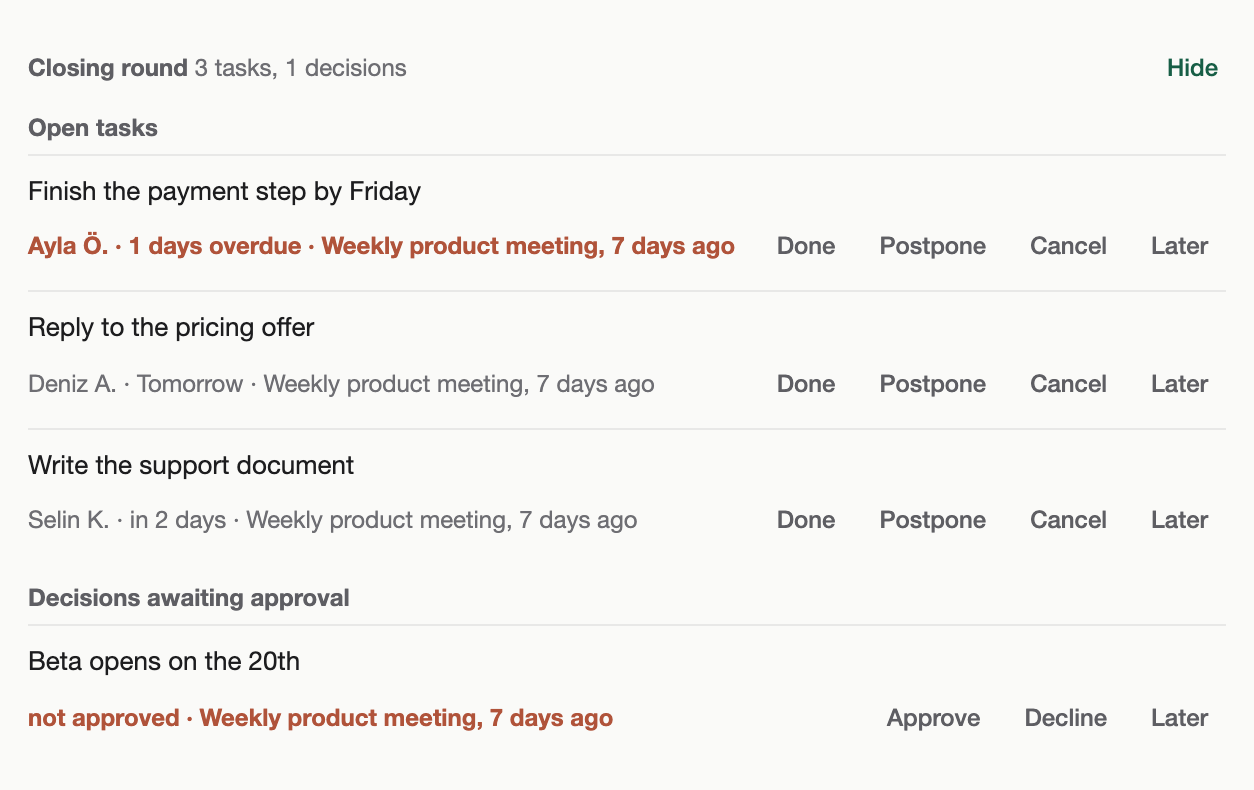
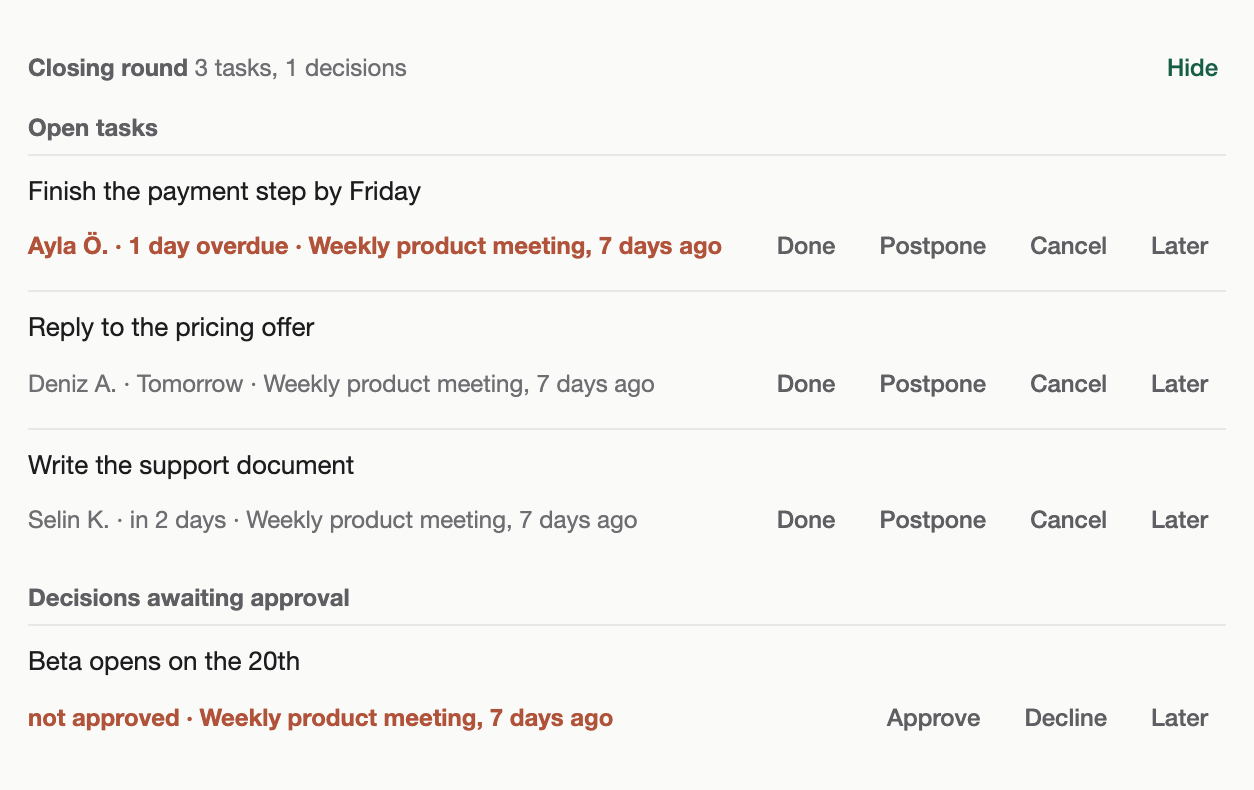
v0.226.4: toplantı şeridindeki kartlar panodaki tasarımda (ayrı kart, tür simgesi, ↳ soru, kaynak satırı); EN iş sekmesi Open, tekil 'day'; README: tam pencere pano görselleri, yeni şerit, Takvim bölümü

Changed region(s): [[0.1555, 0.2734, 0.5909, 0.3342]]

diff --git a/content.js b/content.js
@@ -567,7 +567,10 @@ chrome.runtime.onMessage.addListener((msg, _s, reply) => {
       kulak: ["M4 15v-3a8 8 0 0 1 16 0v3", "M5 14h2.5v6H6a1.5 1.5 0 0 1-1.5-1.5V15z", "M19 14h-2.5v6H18a1.5 1.5 0 0 0 1.5-1.5V15z"],
       kilit: ["M7 10.5h10a2 2 0 0 1 2 2v6a2 2 0 0 1-2 2H7a2 2 0 0 1-2-2v-6a2 2 0 0 1 2-2z", "M8.5 10.5V7.5a3.5 3.5 0 0 1 7 0v3"],
       disli: ["M12 9a3 3 0 1 1 0 6a3 3 0 1 1 0-6z", "M12 3.5v2.2M12 18.3v2.2M3.5 12h2.2M18.3 12h2.2M6 6l1.6 1.6M16.4 16.4L18 18M18 6l-1.6 1.6M7.6 16.4L6 18"],
-      pin: ["M9 4h6l-1 5.5 3 3H7l3-3z", "M12 12.5V20"] };
+      pin: ["M9 4h6l-1 5.5 3 3H7l3-3z", "M12 12.5V20"],
+      sohbet: ["M20.5 12a8.5 8.5 0 0 1-12.4 7.6L3.5 20.5l1-4.2A8.5 8.5 0 1 1 20.5 12z", "M9 10.5v3M12 9v6M15 10.5v3"],
+      liste: ["M7 4.5h10a2 2 0 0 1 2 2v12a2 2 0 0 1-2 2H7a2 2 0 0 1-2-2v-12a2 2 0 0 1 2-2z", "M9 4.5V3h6v1.5M8.5 10h7M8.5 13.5h7M8.5 17h4"] };
+    const KI = { soyle: "sohbet", dur: "uyari", cevap: "check", not: "liste", onay: "zil", replik: "replik" };  // pano/pano.html KI ile aynı: tür simgeyle de ayrılır (v0.194.0)
     function ikon(d, ad) {
       const NS = "http://www.w3.org/2000/svg", s = d.createElementNS(NS, "svg"); s.setAttribute("viewBox", "0 0 24 24"); s.setAttribute("class", "i"); s.setAttribute("aria-hidden", "true");
       for (const yol of IKON[ad] || []) { const p = d.createElementNS(NS, "path"); p.setAttribute("d", yol); s.append(p); }
@@ -593,16 +596,16 @@ chrome.runtime.onMessage.addListener((msg, _s, reply) => {
         .row button.rb.bas{color:var(--ac-yazi);background:var(--ac);border-color:var(--ac)}.row button.rb.tmm{animation:tm .9s}
         @keyframes tm{0%{background:color-mix(in srgb,var(--ac) 45%,transparent)}100%{background:var(--s1)}}
         .row .ay{width:1px;height:16px;background:var(--bd2);margin:0 2px;flex:none}
-        .k{position:relative;background:transparent;border:0;border-radius:var(--kose-s);padding:6px 6px 6px 12px;margin:0 0 6px;overflow:hidden;color:var(--tx);cursor:pointer;display:flex;gap:6px;align-items:flex-start}
-        .k:hover{background:var(--hov)}.k .m{flex:1;min-width:0}
-        .k::before{content:"";position:absolute;left:0;top:6px;bottom:6px;width:2px;border-radius:var(--kose-tam);background:var(--kc,var(--t3))}.k.bil::before{display:none}
-        .k b{display:block;font-size:var(--yz-1);font-weight:600;letter-spacing:.03em;color:var(--kc,var(--t3));margin-bottom:1px}
-        .a{display:flex;gap:2px;flex:none}
+        .k{position:relative;background:var(--s1);border:1px solid var(--bd);border-radius:var(--kose-l);padding:12px;margin:0 0 8px;overflow:hidden;color:var(--tx);cursor:pointer;display:flex;gap:8px;align-items:flex-start}  /* pano/pano.html .k: ayrı yuvarlak kart, renk çubuğu yok */
+        .k:hover{background:var(--hov)}.k .m{flex:1;min-width:0;overflow-wrap:anywhere}.k[data-onay]{cursor:default}
+        .k b{display:flex;align-items:center;gap:4px;font-size:var(--yz-2);font-weight:600;letter-spacing:.03em;color:var(--kc,var(--t3));margin-bottom:4px}.k b svg.i{width:13px;height:13px;stroke-width:1.9}
+        .kw{font-size:var(--yz-2);color:var(--t2);margin-top:4px}
+        .a{display:flex;gap:4px;flex:none}
         button{font:var(--yz-2)/1 -apple-system,BlinkMacSystemFont,system-ui,sans-serif;color:var(--t3);background:transparent;border:1px solid transparent;border-radius:var(--kose-s);padding:4px 6px;cursor:pointer}
         button:hover{background:var(--hov);color:var(--tx)}button:disabled{opacity:.6}
         .q{font-size:var(--yz-2);color:var(--t2);padding:4px 2px}.top{font-size:var(--yz-2);color:var(--t2);margin:0 2px 6px;display:flex;align-items:center;gap:5px}svg.i{width:13px;height:13px;stroke:currentColor;fill:none;stroke-width:1.8;stroke-linecap:round;stroke-linejoin:round;flex:none;vertical-align:-2px}button svg.i{width:14px;height:14px}.top:empty{display:none}.uy{color:var(--dikkat)}
         .bos{font-size:var(--yz-2);color:var(--t3);padding:6px 2px}
-        .kd{font-size:var(--yz-2);color:var(--t2);margin-top:2px}.rp{font-weight:600}
+        .kd{font-size:var(--yz-2);color:var(--t3);margin-top:4px}.rp{font-weight:600}
         .yeni{animation:p 1s 3}@keyframes p{0%{box-shadow:0 0 0 0 color-mix(in srgb,var(--ac) 75%,transparent)}100%{box-shadow:0 0 0 12px transparent}}
         @media (prefers-reduced-motion:reduce){*{animation:none!important;transition:none!important}}`;
     function ensure() {
@@ -775,11 +778,13 @@ chrome.runtime.onMessage.addListener((msg, _s, reply) => {
       if (dil) list.append(ust("uyari", L("Döküm dili yanlış — panoya bak"), "top uy"));
       if (warn) list.append(ust("uyari", warn, "top uy"));
       cards.forEach(c => {
-        const k = e("div", c.kind === "cevap" || c.kind === "not" ? "k bil" : "k"); k.dataset.id = c.id; k.style.setProperty("--kc", COL[c.kind]);
+        const k = e("div", "k k-" + c.kind); k.dataset.id = c.id; k.style.setProperty("--kc", COL[c.kind]);
         if (c.onay) k.dataset.onay = "1"; else k.title = L("Dokun: kapat");
-        const m = e("div", "m"); m.append(e("b", null, (c.geri ? "↩ " : "") + L(c.onay ? "Onay bekliyor" : c.replik ? "Ne diyeyim" : KL[c.kind] || "Not")));
+        const m = e("div", "m"); const bb = e("b"); if (c.geri) bb.append(d.createTextNode("↩ ")); bb.append(ikon(d, KI[c.onay ? "onay" : c.replik ? "replik" : c.kind] || "liste"), d.createTextNode(L(c.onay ? "Onay bekliyor" : c.replik ? "Ne diyeyim" : KL[c.kind] || "Not"))); m.append(bb);
+        if (!c.gizli && c.q) m.append(e("div", "kw", "↳ " + c.q));  // panodaki gibi: kartı doğuran soru
         if (!c.gizli) m.append(c.replik ? e("span", "rp", c.text) : d.createTextNode(c.text));
         if (c.durum && !c.gizli) m.append(e("div", "kd", c.durum));  // Ne diyeyim?: şu an ne konuşuluyor
+        if (typeof c.why === "string" && c.why && !/^\s*[\[{]/.test(c.why) && !c.gizli) m.append(e("div", "kw", c.why));  // kaynak/neden satırı (gri)
         const a = e("div", "a");
         // onay kartı (#76): Claude'un yapacağı iç işi yazılı onayla — yalnız anahtarlı eklentiden geçer
         (c.onay ? [["onaylandi", ["check", L("Onayla")], "Onayla"], ["reddedildi", ["x", L("Reddet")], "Reddet"]] :

diff --git a/pano/pano.html b/pano/pano.html
@@ -558,7 +558,7 @@ const DIL="__DIL__"
 const EN=globalThis.SUFLOR_EN || {}
 // S133: kullanıcıya görünen tek muhatap asistan — {asistan} = toplantı kişiliğinin adı (/status asistan; kişiliksiz "Suflor")
 let AS="Suflor",ASM={};const AG=a=>ASM[a]||a;const asGor=k=>(k&&(k.kisilik_gorunen||AG(k.kisilik)))||AS
-function L(s,v){let t=DIL==="en"&&EN[s]||s;if(v)for(const k in v)t=t.split("{"+k+"}").join(v[k]);return t.split("{asistan}").join(AS)}
+function L(s,v){let t=DIL==="en"&&EN[s]||s;if(v)for(const k in v)t=t.split("{"+k+"}").join(v[k]);if(DIL==="en"&&v)t=t.replace(/\b1 (day|week|hour|minute|item|card|task|record|meeting)s\b/g,"1 $1");return t.split("{asistan}").join(AS)}  // İngilizce tekil: "1 days" → "1 day"
 // durağan HTML'deki {asistan}: özgün metin saklanır, ad değişince yeniden yazılır
 // kutu ipucu: toplantıda (ve mini panoda) genel "Asistanla konuş" — toplantıda ve dışında asistan farklı; panoda toplantı yokken (Bugün) toplantı dışı kişiliğin adıyla "Marvin'e sor"
 function yonelme(a){a=String(a||'').trim();const t=a.toLowerCase(),v=(t.match(/[aeıioöuü](?=[^aeıioöuü]*$)/)||['e'])[0];return a+"'"+(/[aeıioöuü]$/.test(t)?'y':'')+('aıou'.includes(v)?'a':'e')}
@@ -2311,7 +2311,7 @@ function knListe(liste,sk){if(!liste.length)return''
 function knCiz(){const v=knV,ks=v?v.kayitlar.filter(x=>!bnGizli.has(x.id)):[],sk=knSek()
   const dis=v?(v.dis||[]).flatMap(d=>d.ok?d.kayitlar.map(x=>({tur:x.tur,metin:x.metin,kim:x.sahip||'',baslik:x.toplanti||'',toplanti:'',vade:x.vade||'',durum:'acik',gecikti:false,tarihsiz:!x.vade,dis:true,kaynak:d.ad,id:''})):[]):[]
   const hepsi=[...ks,...dis],uyan=hepsi.filter(knSuzgec),say=k=>uyan.filter(x=>knSekmede(x,k)).length,liste=uyan.filter(x=>knSekmede(x,sk)).sort(knSira)
-  const sek=[['acik',L('Açık')],['geciken',L('Geciken')],['karar',L('Kararlar')],['biten',L('Biten')]].map(([k,a])=>`<button type=button role=tab class="sekme${sk===k?' etkin':''}" aria-selected="${sk===k}" data-bn=knsek data-s="${k}">${a}<span class=say>${say(k)}</span></button>`).join('')
+  const sek=[['acik',DIL==='en'?L('Açık (iş sekmesi)'):'Açık'],['geciken',L('Geciken')],['karar',L('Kararlar')],['biten',L('Biten')]].map(([k,a])=>`<button type=button role=tab class="sekme${sk===k?' etkin':''}" aria-selected="${sk===k}" data-bn=knsek data-s="${k}">${a}<span class=say>${say(k)}</span></button>`).join('')
   const opt=(l,sec)=>l.map(([d,a])=>`<option value="${esc(d)}"${sec===d?' selected':''}>${esc(a)}</option>`).join('')
   const top=opt([['',L('Tüm toplantılar')],...(v?v.toplantilar.map(t=>[t.dosya,toplantiAdi(t.dosya,t.baslik)+(t.tarih?' · '+goreliTarih(t.tarih):'')]):[])],knSuz.toplanti)
   const seg=sk==='karar'?'':`<div class="seg kimin" role=group aria-label="${L('Kimin')}">${[['ben',L('Benim')],['ekip',L('Ekibin')]].map(([k,a])=>`<button type=button data-bn=knsahip data-v="${k}" class="${knSuz.sahip===k?'on':''}" aria-pressed=${knSuz.sahip===k}>${a}</button>`).join('')}</div>`

diff --git a/pano/dil.js b/pano/dil.js
@@ -296,6 +296,7 @@ globalThis.SUFLOR_EN = {
   "Pano, menü paneli ve Mac pencereleri. Sistem: Mac’in açık ya da koyu görünümüne uyar.": "Panel, menu bar panel and Mac windows. System follows the Mac’s light or dark appearance.",
   "Sistem": "System",
   "Açık": "Light",
+  "Açık (iş sekmesi)": "Open",
   "Koyu": "Dark",
   "English": "English",
   "Toplantıda asistan": "Assistant in meetings",

diff --git a/README.md b/README.md
@@ -155,6 +155,16 @@ Her satırın yanında tek tıkla yapılacak iş vardır: *Onayla*, *Yapıldı*,
 
 <p align="center"><img src="gorsel/gun.png" alt="Günün özeti: bugünün odağı, dikkat bekleyen kararlar (Yeni, Değişti), Taslağını hazırla ve Onayla düğmeleri; Dün öğrendiklerim satırında Doğru ve Yanlış" width="100%"></p>
 
+## Takvim
+
+Mac Takvim'indeki toplantılar (Google, Exchange, iCloud) Suflor.me'nin kenar çubuğunda **Takvim** sayfasında görünür. Kayıt gerekmez; Takvim'i okur, değiştirmez.
+
+<p align="center"><img src="gorsel/takvim.png" alt="Takvim sayfası, Hafta görünümü: toplantılar hazırlık durumuna göre renkli (hazır, eksik); 17:00 toplantısının ayrıntı kutusunda katılımcılar, düzenleyen, hazırlık durumu, Hazırlığı aç ve Başlat düğmeleri" width="100%"></p>
+
+- **Toplantılar.** Gün, Hafta, Ay ve Saatler (mesai içi ve dışı) görünümleri. Bir toplantıya tıklayınca katılımcıları, platformu (Teams, Meet, Zoom) ve düzenleyeni görürsün; **Başlat** toplantıyı bağlantısıyla başlatır, geçmiş toplantının Suflor kaydı varsa dökümü açılır.
+- **Hazırlık ve gündem taslağı.** Her toplantı hazırlık durumunu renkle gösterir (Hazır, Eksik, Hazırlık yok). **Hazırlığı aç** brifingi gösterir; katılımcılarla ilgili açık işler ve kararlar gündem taslağı olarak gelir (ayrıntı: *Ekipte kullanım*).
+- **Uygun zaman bulma.** Asistana "bu hafta ne zaman boşum?" ya da "yarın uygun saatlerim?" diye sorarsan takvimden, çalışma saatlerine (ayar `calisma_saatleri`) göre boş aralıkları söyler.
+
 ## Ekipte kullanım
 
 Suflor.me tek kişilik de çalışır; ekip toplantılarında üç işi üstlenir: toplantıya gündem hazırlar, ekibin işlerini takip eder, isterseniz kayıtları ekip üyeleriyle eşitler.

diff --git a/README.en.md b/README.en.md
@@ -157,6 +157,16 @@ under *What I learned yesterday* you say **Right** or **Wrong**, and that is use
 
 <p align="center"><img src="gorsel/en/gun.png" alt="Today at a glance: today's focus, decisions needing attention (New, Changed), Prepare the draft and Approve buttons; What I learned yesterday with Right and Wrong" width="100%"></p>
 
+## Calendar
+
+The meetings in your Mac Calendar (Google, Exchange, iCloud) appear on the **Calendar** page in the Suflor.me sidebar. No sign-up is needed; it reads your Calendar and never changes it.
+
+<p align="center"><img src="gorsel/en/takvim.png" alt="Calendar page, Week view: meetings colored by preparation status (ready, incomplete); the details box of the 17:00 meeting shows attendees, organiser, preparation status, Open preparation and Start buttons" width="100%"></p>
+
+- **Meetings.** Day, Week, Month and Clocks (working hours and outside) views. Click a meeting to see its attendees, platform (Teams, Meet, Zoom) and organiser; **Start** begins the meeting from its link, and for a past meeting with a Suflor record it opens the transcript.
+- **Preparation and agenda draft.** Each meeting shows its preparation status by color (Ready, Incomplete, Not prepared). **Open preparation** shows the briefing; open tasks and decisions about the attendees come as an agenda draft (see *Using it in a team*).
+- **Finding a free time.** Ask the assistant "when am I free this week?" or "what are my free hours tomorrow?" and it reads the calendar and answers with the free slots inside your working hours (setting `calisma_saatleri`).
+
 ## Using it in a team
 
 Suflor.me works fine for one person. In team meetings it does three things: it drafts the agenda, tracks the team's tasks, and, if you want, syncs records with teammates.
